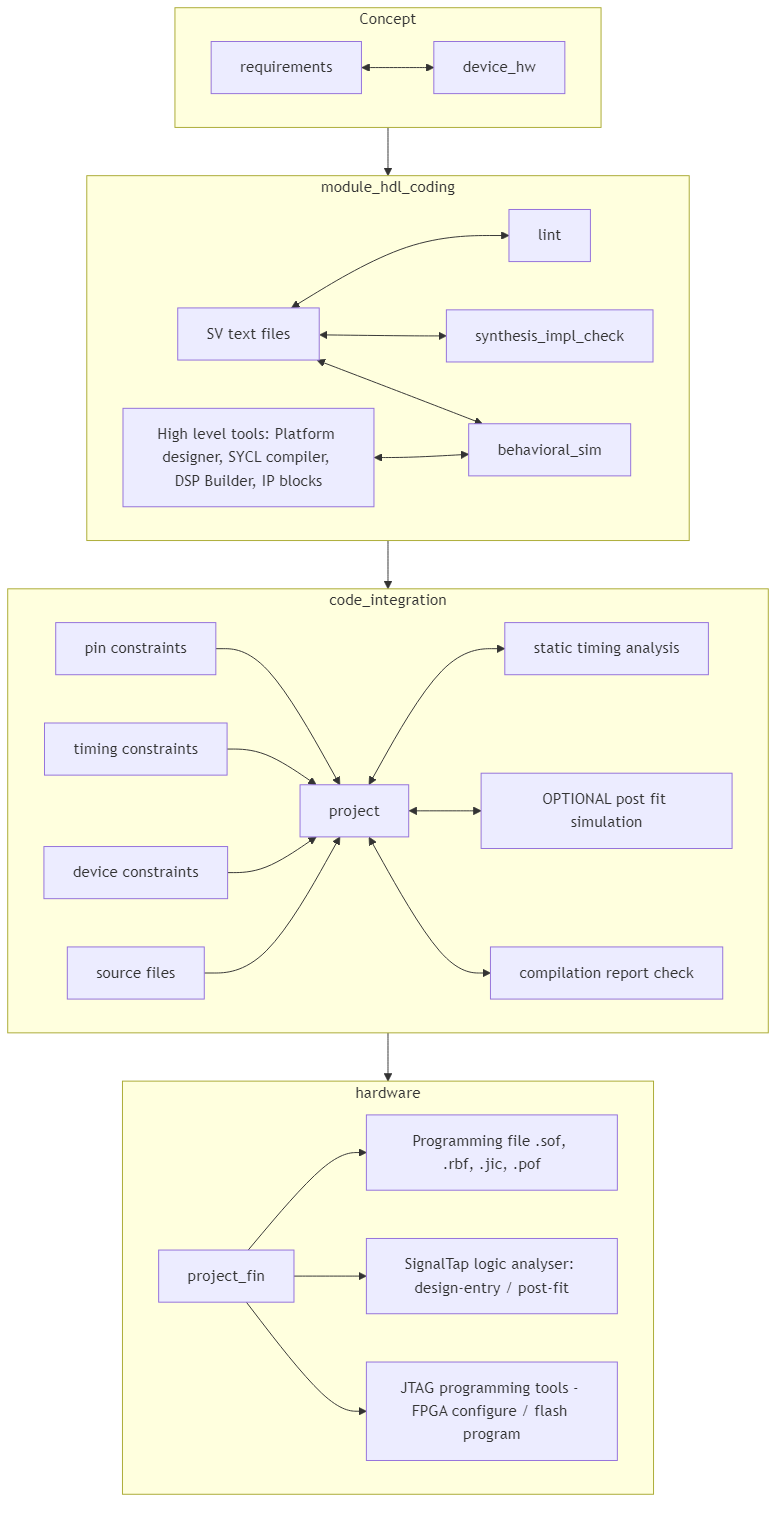
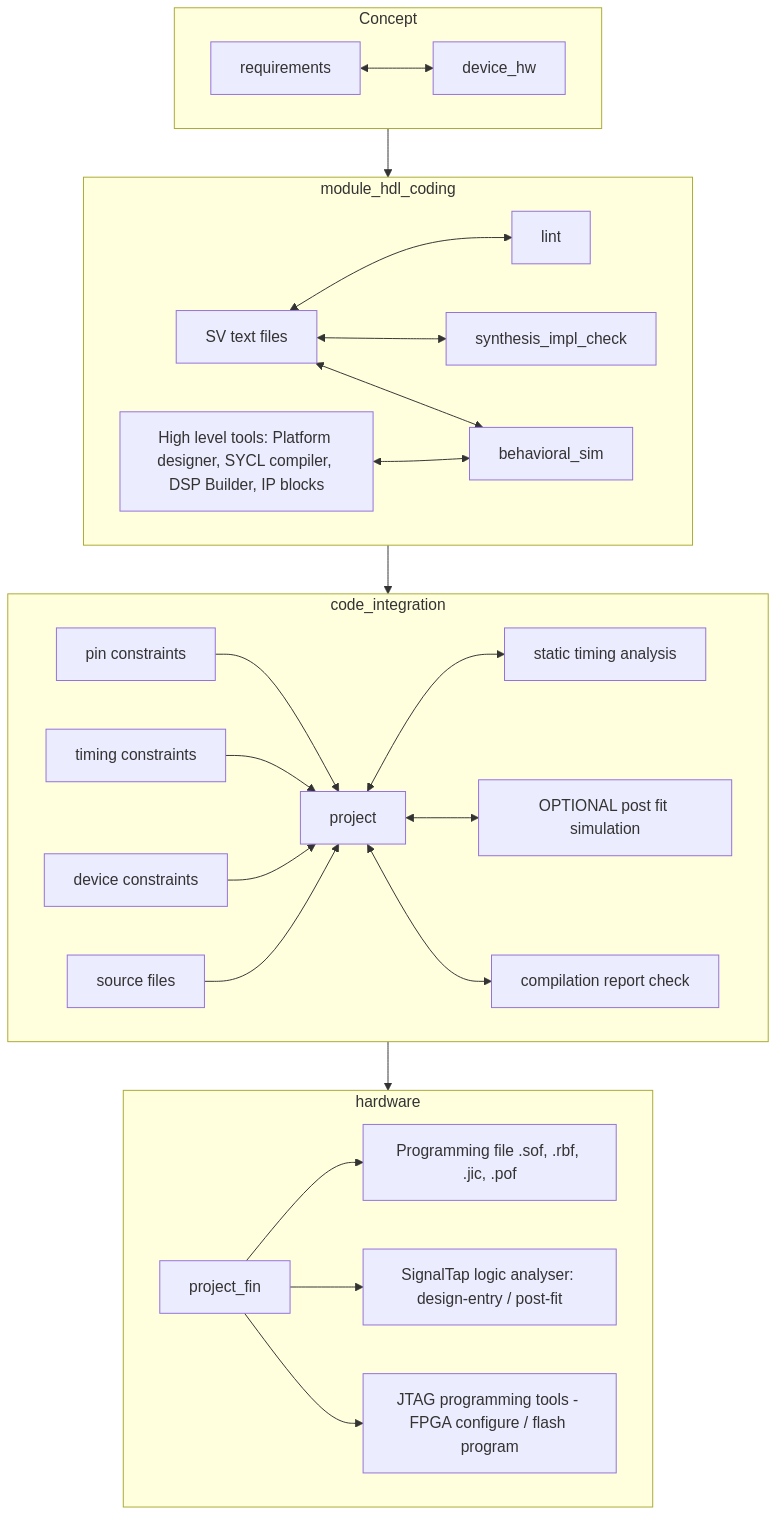
rebuild web

diff --git a/docs/dist/1_qproject/slides.html b/docs/dist/1_qproject/slides.html
@@ -13,9 +13,6 @@
     .reveal .sourceCode {  /* see #7635 */
       overflow: visible;
     }
-    /* Default styles provided by pandoc.
-    ** See https://pandoc.org/MANUAL.html#variables-for-html for config info.
-    */
     code{white-space: pre-wrap;}
     span.smallcaps{font-variant: small-caps;}
     div.columns{display: flex; gap: min(4vw, 1.5em);}
@@ -191,39 +188,39 @@ alt="window" /></p>
 <col style="width: 25%" />
 </colgroup>
 <thead>
-<tr>
+<tr class="header">
 <th>Quartus file extension</th>
 <th>usage</th>
 <th>other tools equivalent</th>
 </tr>
 </thead>
 <tbody>
-<tr>
+<tr class="odd">
 <td>.qpf</td>
 <td>Project file</td>
 <td>.ldf .xpr</td>
 </tr>
-<tr>
+<tr class="even">
 <td>.qsf</td>
 <td>Settings file</td>
 <td>.lpf .xdc</td>
 </tr>
-<tr>
+<tr class="odd">
 <td>.qip</td>
 <td>Quartus IP file - a group of source files</td>
 <td></td>
 </tr>
-<tr>
+<tr class="even">
 <td>.ip</td>
 <td>Quartus IP file (IP-XACT)</td>
 <td>.xml</td>
 </tr>
-<tr>
+<tr class="odd">
 <td>.stp</td>
 <td>SignalTap (logic analyser) file</td>
 <td>.rvl .ltx</td>
 </tr>
-<tr>
+<tr class="even">
 <td>.qsys</td>
 <td></td>
 <td></td>
@@ -242,14 +239,14 @@ alt="window" /></p>
 <col style="width: 25%" />
 </colgroup>
 <thead>
-<tr>
+<tr class="header">
 <th>Quartus setting</th>
 <th>usage</th>
 <th>other tools equivalent</th>
 </tr>
 </thead>
 <tbody>
-<tr>
+<tr class="odd">
 <td>Fitter Initial Placement Seed</td>
 <td>Affects randomized initial placement</td>
 <td>cost table</td>

diff --git a/docs/dist/2_vds/slides.html b/docs/dist/2_vds/slides.html
@@ -13,9 +13,6 @@
     .reveal .sourceCode {  /* see #7635 */
       overflow: visible;
     }
-    /* Default styles provided by pandoc.
-    ** See https://pandoc.org/MANUAL.html#variables-for-html for config info.
-    */
     code{white-space: pre-wrap;}
     span.smallcaps{font-variant: small-caps;}
     div.columns{display: flex; gap: min(4vw, 1.5em);}
@@ -117,6 +114,16 @@ frequency</li>
 <aside class="notes">
 <p>The columns renders left to right in the reveal.js generated by
 pandoc</p>
+<pre class="mermaid"><code>graph TB
+    hw[hardware arch defined in vds] --&gt; bsp[bsp generate niosv_bsp]
+    bsp --&gt; app[application cmake files niosv_app]
+    app --&gt; cmake
+    cmake --&gt; bin[elf, hex object files]
+    bin --&gt; hw_c[update memory content for mem .ip]
+    hw_c --&gt; rbf[FPGA programming file with Nios V program]
+    bin --&gt; dbg[debug elf using gdb or riscfree]
+    rbf --[mif update]--&gt;rbf2[rbf with preserved layout]
+    bin --&gt; rbf2</code></pre>
 </aside>
 <div class="columns">
 <div class="column">
@@ -131,7 +138,7 @@ editor.
 </ul>
 </div><div class="column">
 <figure>
-<img data-src="../../images/flow.png" alt="test" />
+<img data-src="../../images/niosv_flow.png" alt="test" />
 <figcaption aria-hidden="true">test</figcaption>
 </figure>
 </div>

diff --git a/docs/index.html b/docs/index.html
@@ -13,9 +13,6 @@
     .reveal .sourceCode {  /* see #7635 */
       overflow: visible;
     }
-    /* Default styles provided by pandoc.
-    ** See https://pandoc.org/MANUAL.html#variables-for-html for config info.
-    */
     code{white-space: pre-wrap;}
     span.smallcaps{font-variant: small-caps;}
     div.columns{display: flex; gap: min(4vw, 1.5em);}
